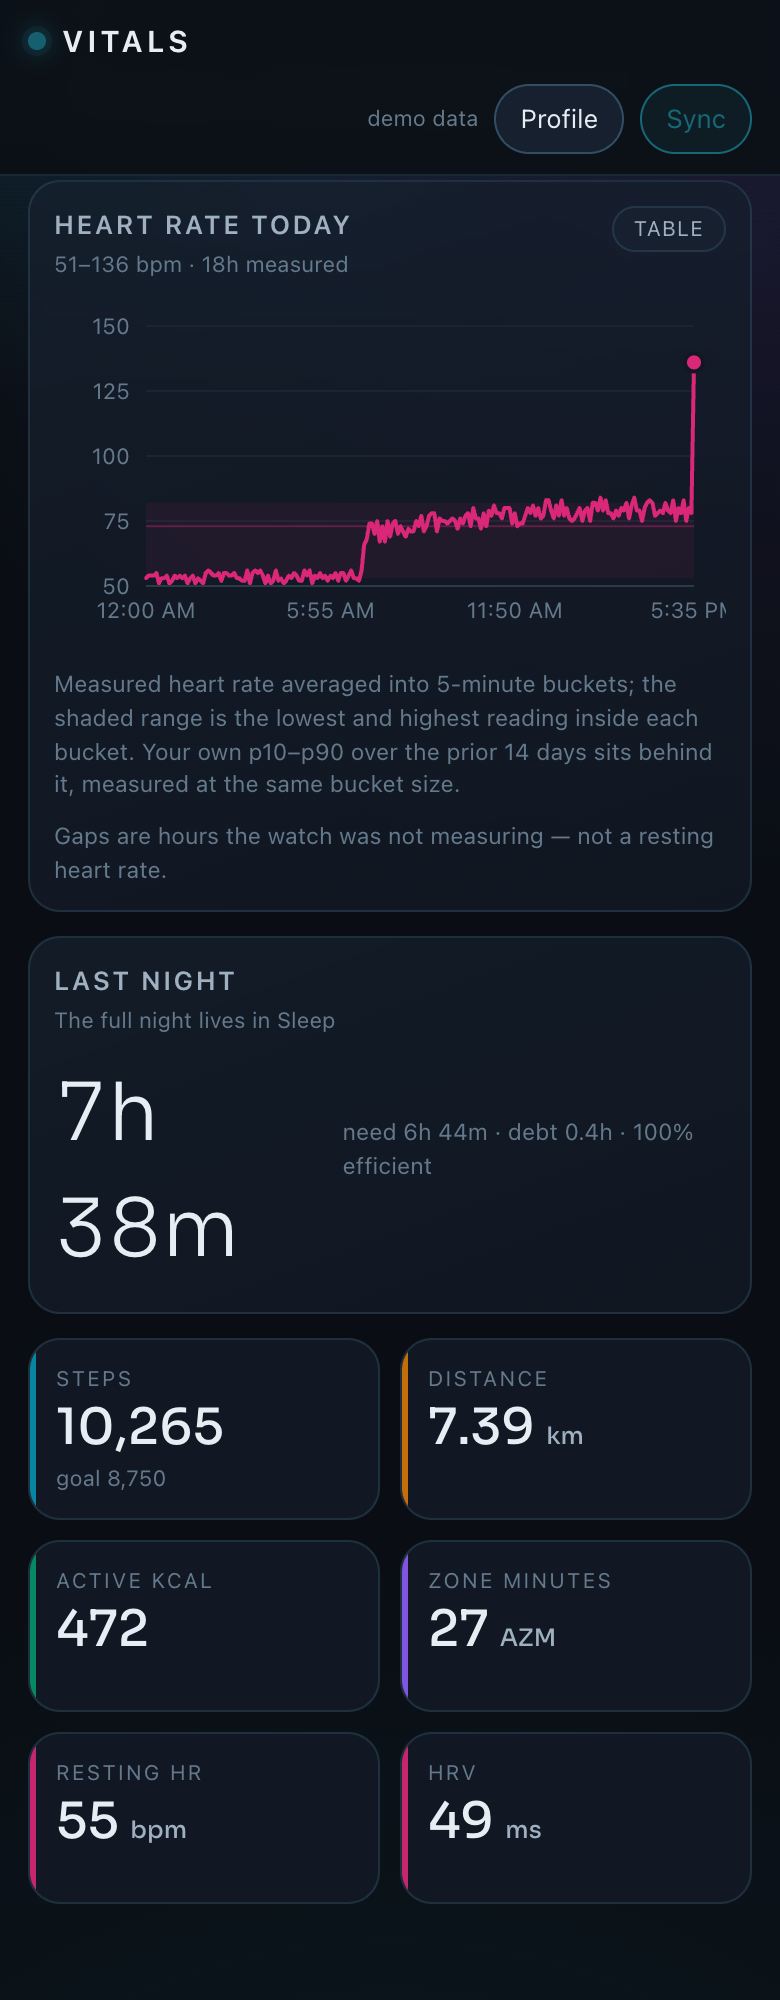
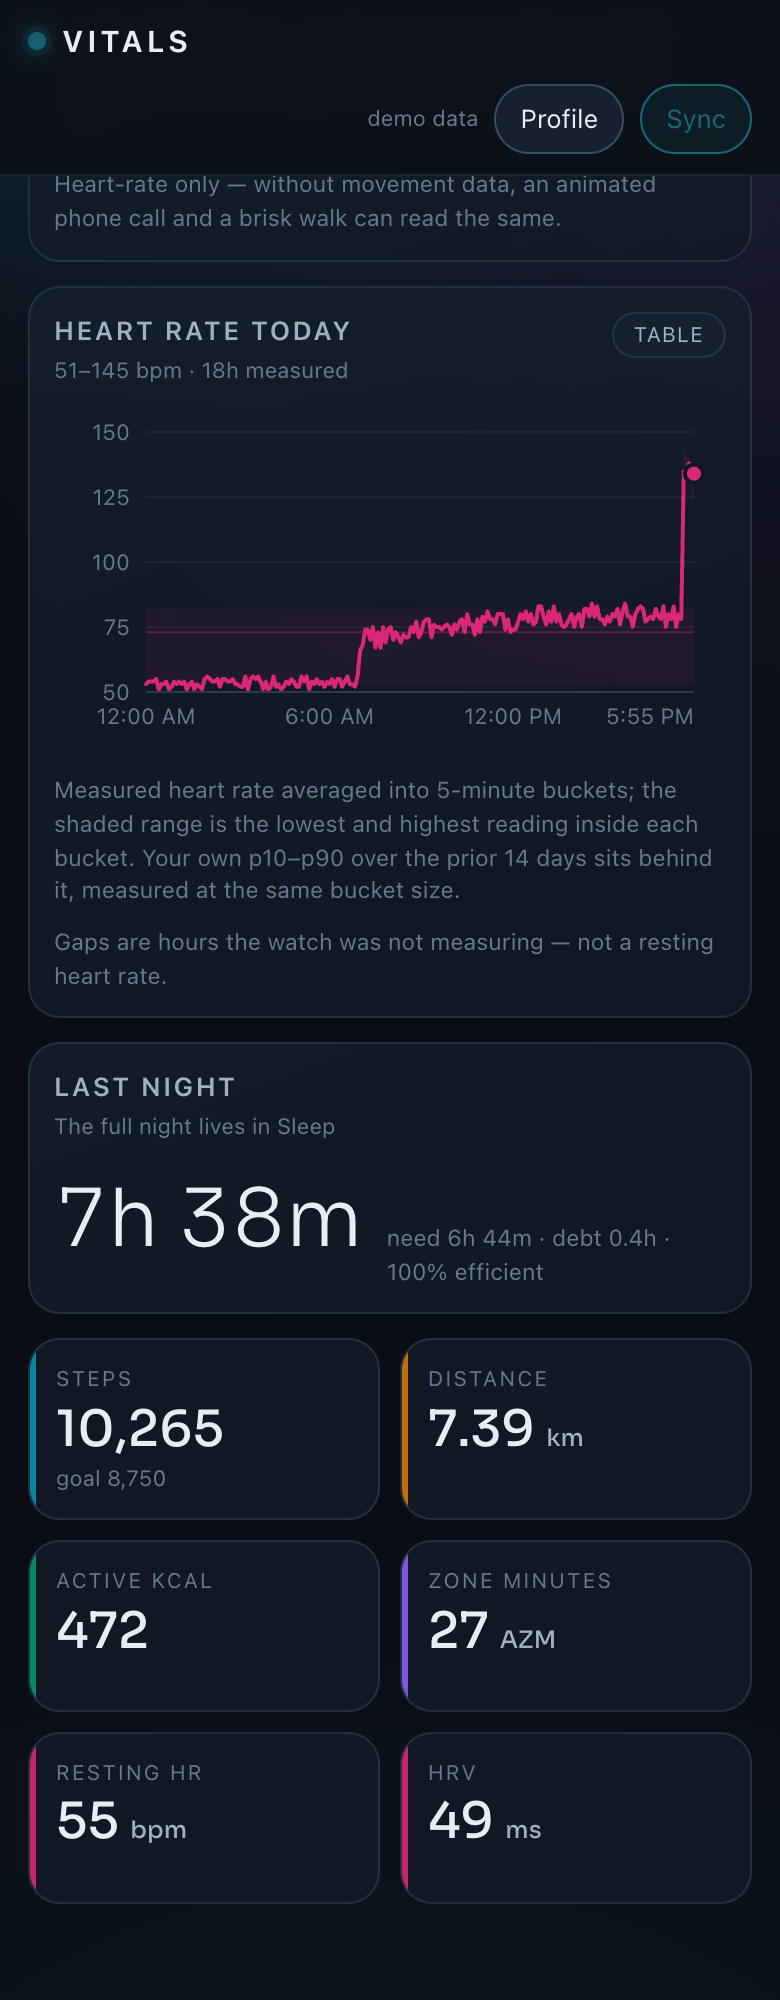
Fix two phone-width layout breaks
## Context
Both only appear at phone width, which is the frame this dashboard is designed
in — and both were visible in the README screenshots.

## Changes
- style.css: the Last night headline is ONE duration, but the flex line ran out
  of room at 390px and broke "7h 38m" across two lines, which reads as two
  separate figures. The number no longer wraps; the subline wraps instead.
  Nap rows get the same guard, since they carry the same hh:mm.
- charts.js: the final x-axis tick sits at the right edge of the plot, so
  centring it hung half the label outside the SVG and the clock time rendered
  clipped. The last tick anchors to its end — it is the only one with no room
  to its right.
- docs/screenshots: today, sleep and heartrate recaptured with the fixes.

## Testing
97 tests pass. Measured in the browser at 390px rather than eyeballed: the
headline is one line (white-space nowrap), and the last tick's right edge sits
16px INSIDE the SVG instead of past it.

diff --git a/public/style.css b/public/style.css
@@ -659,11 +659,14 @@ main.loading { opacity: 0.5; transition: opacity 120ms ease; }
 .bench-table .n.ghosted { color: var(--muted); font-weight: 400; }
 
 /* --- sleep extras ---------------------------------------------------------- */
-.debt-hero { display: flex; align-items: baseline; gap: 12px; }
-.debt-hero b { font-family: var(--font-num); font-weight: 300; font-size: 40px; font-variant-numeric: tabular-nums; }
-.debt-hero .sub { color: var(--muted); font-size: 11.5px; }
+/* The headline is ONE duration. At phone width the flex line ran out of room and
+   "7h 38m" broke across two lines, which reads as two separate figures — so the
+   number never wraps and the subline moves to its own line instead. */
+.debt-hero { display: flex; align-items: baseline; gap: 12px; flex-wrap: wrap; }
+.debt-hero b { font-family: var(--font-num); font-weight: 300; font-size: 40px; font-variant-numeric: tabular-nums; white-space: nowrap; flex: none; }
+.debt-hero .sub { color: var(--muted); font-size: 11.5px; min-width: 0; flex: 1 1 12ch; }
 .nap-row { display: flex; gap: 9px; align-items: baseline; font-size: 12px; color: var(--text-2); padding: 4px 0; }
-.nap-row b { color: var(--text); font-variant-numeric: tabular-nums; }
+.nap-row b { color: var(--text); font-variant-numeric: tabular-nums; white-space: nowrap; }
 .pattern-sentence { font-size: 13.5px; color: var(--text); margin: 4px 0 10px; }
 .pattern-grid { display: grid; grid-template-columns: repeat(2, minmax(0, 1fr)); gap: 7px; }
 .pattern-metric { background: var(--surface-2); border-radius: 10px; padding: 8px 10px; border-top: 2px solid var(--muted); }

diff --git a/public/charts.js b/public/charts.js
@@ -274,8 +274,12 @@ function drawXAxis(svg, t, points, xOf, bucketMs, plotH) {
       if (prev) g.removeChild(prev);
     }
     lastX = xOf(i);
+    // The final tick sits at the right edge of the plot, so centring it hangs half
+    // the label outside the SVG and the clock time renders clipped. Anchor the last
+    // one to its end instead — it is the only tick with no room to its right.
     const label = el('text', {
-      x: xOf(i), y: PAD.top + plotH + 16, 'text-anchor': 'middle',
+      x: xOf(i), y: PAD.top + plotH + 16,
+      'text-anchor': isLast && points.length > 1 ? 'end' : 'middle',
       fill: t.muted, 'font-size': 11, class: 'tick',
     });
     label.textContent = sameDay

diff --git a/AGENTS.md b/AGENTS.md
@@ -1,0 +1,247 @@
+# AGENTS.md — vitals
+
+Personal health dashboard: syncs the **Google Health API** into the fleet's MySQL
+and turns it into five screens — **Today · Sleep · Train · Trends · You** — each
+served by one purpose-built endpoint (`/api/screen/*`, composed in
+`lib/screens.js`). One dependency (`mysql2`); no framework, no build step. Deployed
+by infra at **2 replicas** (`infra/apps/vitals.yml`). Read `README.md` for setup,
+the API's access situation, and what each screen carries. Mobile-web first; the
+same payloads are the contract for a future native client, so keep them
+self-describing (dates, units, `method`, freshness) and never UI-shaped.
+
+`npm start` · `npm test` · `npm run check:paths`
+
+**Local dev needs a tunnel to the DB host** — MySQL's published port is filtered
+from outside the database's own host:
+
+    ssh -f -N -L 3307:<db-host>:3306 <db-server>
+
+A locally-run server competes for the sync lease with production (same database), so
+stop it when you are done or it will occasionally sync from your laptop.
+
+## The five things that will bite you
+
+1. **Three naming forms per data type.** kebab in the URL path (`body-fat`), snake in
+   the `filter` expression (`body_fat`), camelCase as the payload key (`bodyFat`).
+   `lib/catalog.js` is the only place that knows this — never hand-write a type name
+   anywhere else.
+
+2. **The filter field depends on the record type**, and a wrong one is a 400, not a
+   wrong answer: INTERVAL → `.interval.start_time`, SESSION → `.interval.end_time`,
+   SAMPLE → `.sample_time.physical_time`, DAILY → `.date` (a civil date — sending a
+   timestamp there is rejected). Use `catalog.timeRangeFilter()`.
+
+3. **Max query range is 14 days for four types, 90 for the rest.** `health.chunks()`
+   is the only correct way to walk a long range.
+
+4. **Google restates data.** A late watch sync rewrites the whole day; sleep is
+   revised the next morning. Hence the 36-hour trailing re-read and upsert on
+   `(data_type, point_id)`. Never make sync append-only.
+
+5. **`pageSize` defaults to 1440.** Ignoring `nextPageToken` truncates a day of
+   intraday heart rate and the chart still looks plausible.
+
+## Measured API facts (live v4, Aug 2026)
+
+These were established against the real API, not read off a doc page — several
+contradict the published reference. Do not "correct" them back.
+
+**Methods.** `total-calories` and `floors` REFUSE `list` entirely: *"List is not
+supported for data type total-calories, but the following actions are supported:
+rollup, dailyRollup"*. They go through `dailyRollUp` (`listMethod` in the catalog).
+
+**dailyRollUp is a different animal**: POST, a civil-date `range` object instead of
+a filter string, and `rollupDataPoints` instead of `dataPoints`.
+- `range.start`/`end` are **CivilDateTime**, which nests under `date` — bare
+  `{year, month, day}` is rejected with `Unknown name "year" at 'range.start'`.
+- `end` is **exclusive and whole-day**, so passing today's date silently drops today.
+- **Do not send `pageSize`.** The reference documents it; sending it returns
+  `Invalid argument in request`.
+- The range cap is **14 civil days**, unrelated to the type's `list` window (floors
+  lists at 90, rolls up at 14). Chunks are cut at 13 because the end rounds up.
+
+**Filters.** `exercise`, `hydration-log` and `nutrition-log` reject *every*
+physical-time member and accept only `<snake>.interval.civil_start_time`, with an
+offset-less local literal (`2026-08-14T20:03:00`). Sending RFC-3339 there gives
+`INVALID_DATA_POINT_FILTER_CIVIL_DATE_TIME_FORMAT` — which is the useful error,
+because it means the *member* was right and only the format was wrong.
+
+**Real value fields** (the reference does not publish these per type):
+
+| type | field | note |
+|---|---|---|
+| weight | `weightGrams` | grams, not kg — scale 1/1000 |
+| height | `heightMillimeters` | mm, not cm — scale 1/10 |
+| distance | `millimeters` | |
+| active-energy-burned | `kcal` | |
+| total-calories | `kcalSum` | rollup values carry a `Sum` suffix |
+| heart-rate-variability | `rootMeanSquareOfSuccessiveDifferencesMilliseconds` | |
+| active-minutes | `activeMinutesByActivityLevel[]` | an ARRAY, not a scalar |
+| time-in-heart-rate-zone | *(none)* | one point per interval tagged `heartRateZoneType`; the interval duration IS the value |
+| sedentary-period | *(none)* | interval only; its duration is the measurement |
+| sleep | `stages[]`, `type` | not `sleepStages`/`sleepType` as the doc example shows |
+| respiratory-rate-sleep-summary | `fullSleepStats.breathsPerMinute` | nested per sleep stage — needs a dotted path, or a bare key search returns deep-sleep |
+
+Int64 values arrive as JSON **strings** (`"count": "15"`).
+
+## Invariants — don't quietly break these
+
+- **Point anchors must not depend on the host timezone.** `new Date(y, m, d)` is
+  process-local; a UTC container and a UTC+4 laptop wrote two rows for the same
+  rollup day and daily calories double-counted. Anchors are `Date.UTC`; the viewer's
+  offset is applied at QUERY time, which is the only place a timezone belongs.
+- **Periodic work is leased, and the lease is conditional on completion time.** A
+  plain mutex makes replicas take turns rather than stand down — both still run the
+  sweep, which is the exact failure it was meant to prevent. Manual sync deliberately
+  passes `minInterval 0` to override the cadence.
+- **`points.raw` is never dropped.** Derived values are re-computable from it
+  (`normalize.renormalize`). Per-type value field names aren't fully published, so
+  hints will need correcting; that must never require a re-sync.
+- **`anchor_ms`, not `start_ms`, is what buckets and range-filters.** Sleep anchors on
+  **wake** time (`bucketBy: 'end'`) — bucketing a night by bedtime puts a 23:40 and a
+  00:20 start on different days and produces 15-hour double-nights.
+- **Google is reached from exactly two modules**: `lib/oauth.js` (tokens) and
+  `lib/health.js` (data). The dashboard reads only the database and never waits on
+  upstream — including for age, which sync writes into settings so `metrics.getProfile()`
+  stays a pure database read.
+- **The webhook checks auth BEFORE answering the handshake.** Registration probes the
+  endpoint *without* credentials and requires a 401/403; an endpoint that 200s
+  everything fails with `FAILED_PRECONDITION`. This inverts the usual "handle health
+  checks first" instinct.
+- **No root-absolute URLs in `public/`.** Deployed, the app sits under a stripped path
+  prefix, so `/style.css` works locally and 404s in the fleet. `npm run check:paths`
+  gates it and runs in the Docker build.
+- **`agg` is a property of the measurement, not a UI preference.** Summing a heart
+  rate produces a meaningless number. Don't make it configurable.
+
+## Charts (`public/charts.js`)
+
+Hand-rolled SVG against the house data-viz method. The palette in `style.css` is
+**validated** (both modes) — re-run the validator before changing any colour.
+
+- Ordered scales (sleep stages, HR zones) use the **single-hue ordinal ramp**, never
+  categorical hues. Sleep sets `rampReverse` because it stacks DEEP at the bottom
+  while deep sleep is the *most* end of the scale and must be the darkest step.
+- **Never a second y-axis.** If metrics with different units ever share a chart,
+  index each to its own mean over the range (100 = typical) on one axis — never
+  align two scales.
+- **A missing bucket is `null`, never `0`** — "not measured" and "measured zero" are
+  different claims. `query.denseBuckets` emits every bucket so charts position by
+  real time; lines break at gaps. `connectGaps` (weight, body fat, height) joins the
+  runs *while keeping real indices*, because a standing value doesn't stop existing
+  between measurements.
+- Marks: bars ≤24px with a 4px rounded data-end, 2px lines, 2px surface gaps between
+  fills, hairline solid gridlines, labels only on the last point. Every time-series
+  chart card carries a table toggle (`withTable` in app.js → `tableView`) — that is
+  also what satisfies the relief rule for the three light-mode palette slots under
+  3:1 contrast.
+- Axis ticks take **one unit and one decimal rule for the whole axis**, derived from
+  the largest tick and the step. Per-tick formatting prints `5,000` under `10.0K`,
+  and integer rounding prints a 2.5 step as `0, 3, 5, 8, 10`.
+- New marks follow the same system: `ringGauge`/`arcGauge` keep the semantic colour
+  on the arc only (numerals wear text ink); `overlayChart` compares two days of the
+  SAME metric on one real axis, ghost dashed — still never a second y-axis;
+  `corridorChart` is band + dotted line; `heatCalendar` is single-hue sequential
+  with untracked days as empty dashed cells (not zero-coloured), and every cell is
+  a button that jumps to its day; `lineChart` gained `refBand` — the personal
+  p10–p90 painted behind any series — the Today heart-rate chart pairs it with
+  `band: true`, whose shaded range is each bucket's real min–max, because an
+  averaged 71 bpm hides a 48–160 day. Its reference band comes from
+  `db.bucketBand`, which takes the quantiles IN SQL over bucket averages at the
+  SAME bucket size the chart draws: quantiles of raw one-minute samples are much
+  wider than quantiles of five-minute averages, and the wider band behind the
+  narrower line makes an ordinary day look becalmed. The stress `stateStrip` (on Today) marks
+  off-wrist hours as unknown, never calm. `overlayChart` positions every point by
+  REAL TIME against each series' own origin — its two curves can be sparse and
+  differently bucketed, so index alignment would pair different clock times; its
+  zero-basing is opt-in (`nonNegative: true` for accumulating metrics only). The
+  Aurora glass treatment changes surfaces only — the validated palette values are
+  untouched.
+
+## Derived insights (`lib/insights.js` + `lib/scores.js`/`night.js`/`training.js`/`trends.js`/`goals.js`)
+
+The derived layer follows one shape everywhere: **pure `build*` functions taking
+pre-fetched inputs** (unit-testable) plus thin async wrappers that do the IO;
+`lib/screens.js` fetches shared inputs once per request and composes. Shared
+statistics live in `lib/stats.js` — medians/quantiles/EWMA that drop null, never
+substitute zero.
+
+- Activity detection is heart-rate-only. It may label a session “Elevated heart
+  rate”; it must not guess an activity type without movement/GPS evidence.
+- The Zone 3 entry threshold is 60% of the profile's max HR. Max HR uses `220 - age`
+  unless the user explicitly sets an override in Profile.
+- **Age is READ FROM THE GOOGLE ACCOUNT, never typed in.** `GET /users/me/profile`
+  returns it as whole years under the already-granted `googlehealth.profile.readonly`
+  scope (`/users/me` and `/users/me/userProfile` are both 404 — only that exact path
+  works). Sync stores it; `POST /api/settings` rejects `age` outright. A hand-entered
+  age would silently outlive every sync and shift every zone boundary with it. Max HR
+  stays overridable — a measured max beats any estimate. The pre-sync fallback still
+  answers 30, but reports `ageSource: 'default'` so nothing presents the assumption
+  as a measurement; a failed profile read keeps the last known age and must never
+  fail the sweep.
+- Ten elevated minutes qualify; five minutes below threshold or without samples ends
+  the session. Do not bridge an off-wrist gap and call it exercise.
+- Activity calories prefer granular active-energy intervals. A day-scale record is a
+  fallback only for portions of the detected session with no granular coverage; summing
+  both shapes counts the same time twice.
+- Recovery is a transparent personal-baseline comparison, never a claim to reproduce
+  WHOOP's proprietary score. Keep `derived`, `method`, and `limitation` in the payload.
+- Fitness age is likewise an experimental, whole-year trend estimate — never WHOOP Age,
+  biological age or a diagnosis. It needs at least three well-covered signals, keeps
+  unavailable inputs null, exposes each bounded contribution, and never moves more than
+  ten years from profile age. RHR and HRV compare with the user's own prior 28 days.
+- **Readiness**: an unavailable input lowers COVERAGE, never the score — losing a
+  neutral signal must not move the number, and fewer than two of HRV/RHR/sleep means
+  no score at all (`calibrating`), not a default one.
+- **Strain is a TRIMP transform** (`21·(1−e^(−load/350))`), stated as such — never
+  present it as WHOOP's algorithm. Its daily input prefers the device's own
+  `time-in-heart-rate-zone` minutes (one cheap parts query) and only recomputes
+  zones from raw samples for a bounded recent window.
+- **A rest day is load 0; a pre-history day is null.** "Did not train" decays
+  fitness; "before the account existed" must not invent a detraining spiral. The
+  fitness/fatigue EWMAs seed at the first measured day for the same reason.
+- **Sleep need/debt learns from measured nights only** (≥4 h; sub-4 h sessions are
+  tracking noise). Naps split from the main night and repay debt at half rate,
+  visibly. Consistency does clock arithmetic on an 18:00-anchored scale so a 23:40
+  and a 00:20 bedtime are 40 minutes apart, not 23 hours.
+- **The symptom radar needs joint deviation** — two adverse signals for minor,
+  three for major, at least three measurable vitals to speak at all — and its
+  wording stays "signs of strain", never illness.
+- **Correlation cards** demand n ≥ 14 and |r| ≥ 0.3, report the above/below-median
+  split in real units, and say "associated", never "causes".
+- The strength log (`strength_log` table, `/api/strength`) is the one manual
+  input; its volume index sits BESIDE cardio load and is never summed into it.
+- The demo workout-window cadence must remain no coarser than the one-minute coverage
+  cap or every synthetic workout correctly looks like missing-watch data. Demo civil
+  dates are formatted from LOCAL date parts — the UTC slice of a local midnight dated
+  every daily summary a day early on a UTC+4 host, which left "today" without
+  vitals. Demo units mirror the measured API (weight in grams, height in mm).
+
+## Testing
+
+`test/run.js` deliberately targets what fails *silently*: filter syntax, window
+chunking, restatement, timezone bucketing, sleep anchoring, gap handling, the
+webhook's auth ordering — and, for the derived layer, the failure modes that would
+lie politely: a missing input moving a score, a rest day reading as unknown (or
+the reverse), debt counting untracked nights, consistency breaking at midnight,
+a detected session double-counting a recorded one, correlations reported from
+thirteen days of data. Screen payloads are also exercised against an EMPTY
+database: a new account must get calibration states, not crashes or zeros.
+Rendering is checked by looking at the page — run `npm run demo` and open it.
+
+## The assistant reads this app
+
+`GET /api/assistant` is a one-call digest — today, yesterday, 14 days, 7/30-day
+averages — aggregated here rather than in the model, because a language model doing
+arithmetic over five responses is where invented numbers come from. It also reports
+its own `freshness`, `coverage` and `notes`.
+
+Two rules when changing it:
+
+- **Never let the notes contradict the values.** They were listing resting HR/HRV/SpO2
+  as "no data" while the same payload carried values filled in from raw samples. The
+  assistant reads notes aloud, so a contradiction becomes a confident falsehood.
+- **A null means not measured.** Do not substitute zero anywhere in this payload.
+
+`POST /api/sync` forces a refresh ahead of the 5-minute cadence; the assistant is told
+to call it before answering "right now" questions.
